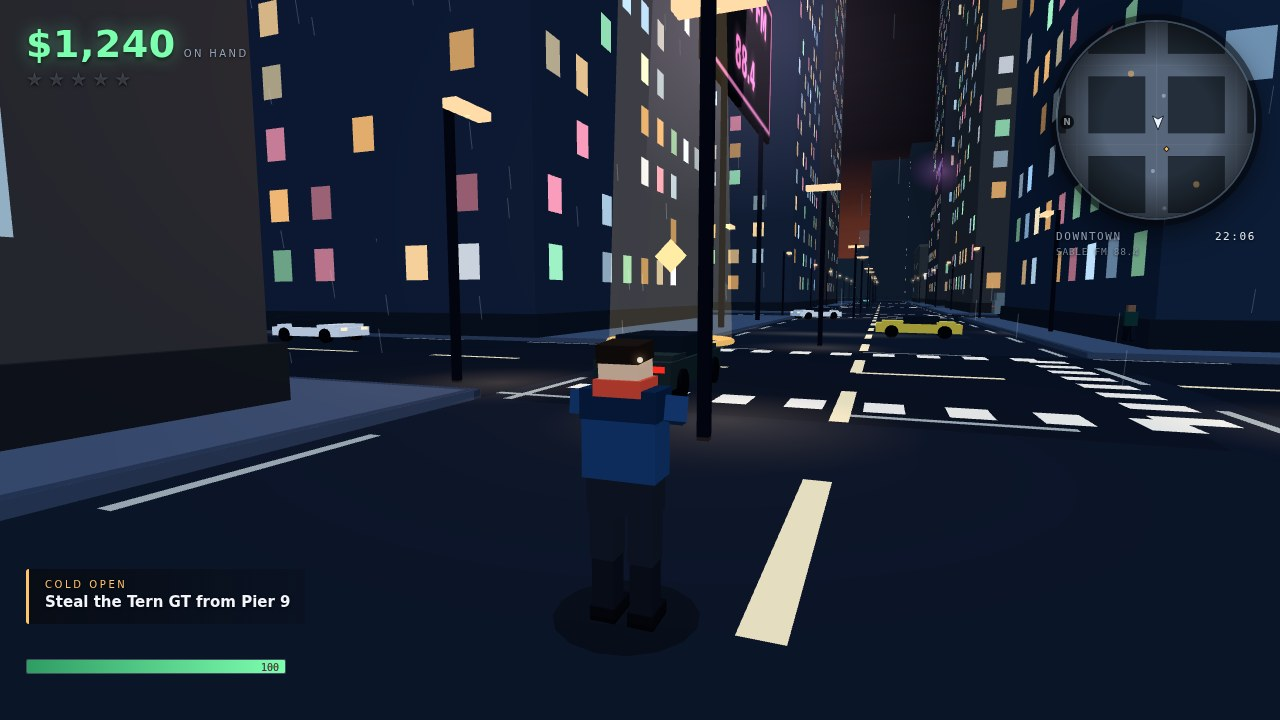
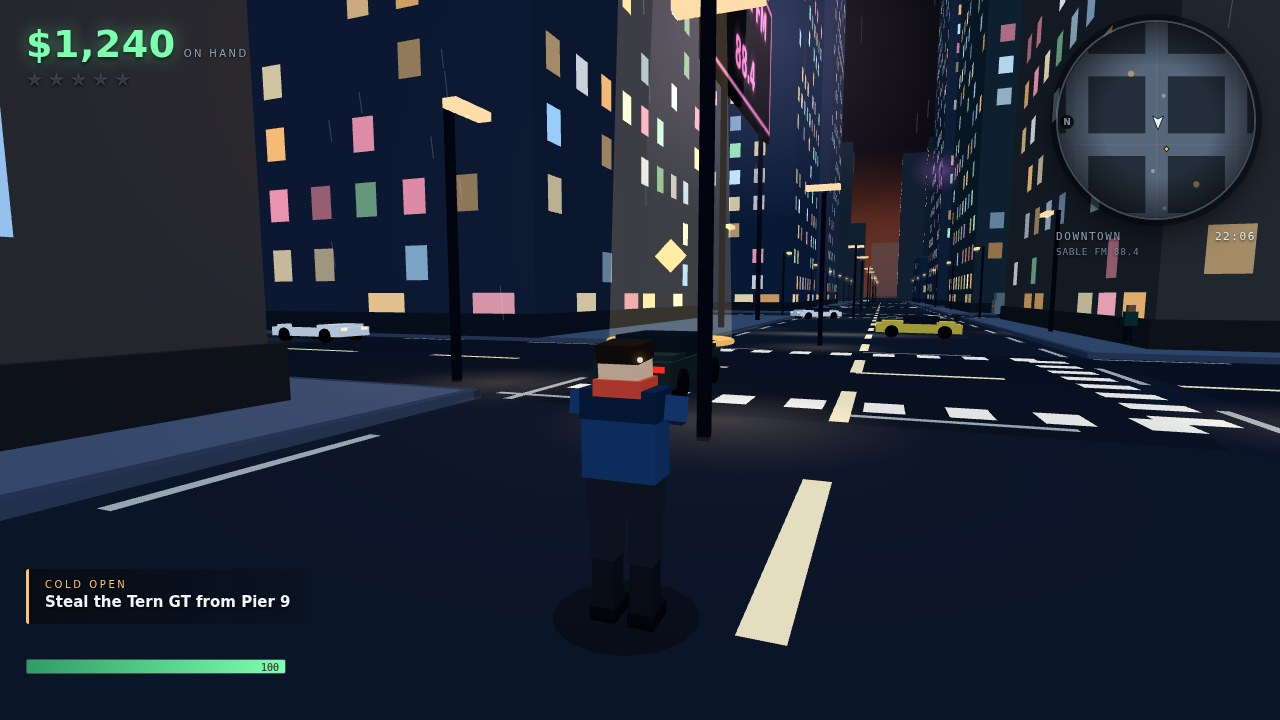
Shopfronts, wet neon reflections, headlight pools, a tighter chase shot
The city now has lit shop windows at street level, a smear of each neon sign on the
wet road under it, a headlight pool in front of every car and brighter beams on the
one being driven. The chase screenshot looks back down the avenue at the cruisers,
the toast line sits clear of the interaction prompt, and the money reads on the HUD
before the first frame.

diff --git a/game/src/city.js b/game/src/city.js
@@ -376,6 +376,7 @@ export class City {
 
     this.buildings.push({ x0, x1, z0, z1, height: base + height, colour, name: spec.name ?? null });
     this.buildWindows(windows, spec, base);
+    if (spec.district !== 'warehouse') this.buildShopfronts(windows, spec);
 
     // Rooftop clutter: tanks, vents, aerials.
     const vents = Math.max(1, Math.round((width * depth) / 160));
@@ -452,6 +453,44 @@ export class City {
               shaded,
             );
           }
+        }
+      }
+    }
+  }
+
+  /** Lit shop windows at street level, so the pavement has something to walk past. */
+  buildShopfronts(windows, spec) {
+    const { x0, x1, z0, z1 } = spec;
+    const base = SIDEWALK_HEIGHT;
+    const faces = [
+      { axis: 'z', at: z0 - 0.06, from: x0 + 1, to: x1 - 1, facing: -1 },
+      { axis: 'z', at: z1 + 0.06, from: x0 + 1, to: x1 - 1, facing: 1 },
+      { axis: 'x', at: x0 - 0.06, from: z0 + 1, to: z1 - 1, facing: -1 },
+      { axis: 'x', at: x1 + 0.06, from: z0 + 1, to: z1 - 1, facing: 1 },
+    ];
+    const shopColours = [0xffd9a0, 0xffc27a, 0xfff0c8, 0x9fe8ff, 0xffb0c8];
+    for (const face of faces) {
+      for (let along = face.from; along < face.to - 2.4; along += 3.6) {
+        if (!this.rng.chance(0.45)) continue;
+        const colour = shade(this.rng.pick(shopColours), this.rng.range(0.6, 0.95));
+        const height = 1.9;
+        const width = 2.6;
+        if (face.axis === 'z') {
+          windows.addFace(
+            [along + width / 2, base + 1.35, face.at],
+            [width / 2, 0, 0],
+            [0, height / 2, 0],
+            [0, 0, face.facing],
+            colour,
+          );
+        } else {
+          windows.addFace(
+            [face.at, base + 1.35, along + width / 2],
+            [0, 0, (width / 2) * -face.facing],
+            [0, height / 2, 0],
+            [face.facing, 0, 0],
+            colour,
+          );
         }
       }
     }
@@ -778,6 +817,25 @@ export class City {
       halo.scale.set(width * 1.7, height * 2.4, 1);
       halo.position.copy(mesh.position);
       this.group.add(halo);
+      // A wet smear of the sign's colour on the road below it.
+      const reflection = new THREE.Mesh(
+        new THREE.PlaneGeometry(width * 0.5, 12),
+        new THREE.MeshBasicMaterial({
+          map: makeGlowTexture('rgba(255,255,255,0.5)', 'rgba(255,255,255,0)'),
+          color: new THREE.Color(colour),
+          transparent: true,
+          opacity: 0.22,
+          depthWrite: false,
+          blending: THREE.AdditiveBlending,
+          toneMapped: false,
+        }),
+      );
+      reflection.rotation.x = -Math.PI / 2;
+      const towardsStreet = facing === 'x-' ? -1 : facing === 'x+' ? 1 : facing === 'z-' ? -1 : 1;
+      const outX = facing.startsWith('x') ? towardsStreet * 6 : 0;
+      const outZ = facing.startsWith('z') ? towardsStreet * 6 : 0;
+      reflection.position.set(x + outX, 0.05, z + outZ);
+      this.group.add(reflection);
       this.signs.push({ x, z, colour });
     };
 
@@ -807,12 +865,12 @@ export class City {
     const boards = [
       { x: 196, z: 214.5, y: 22, facing: 'z+', width: 22, lines: ['SABLE FM', '88.4'], colour: '#ff8ad8' },
       { x: 112, z: 246.5, y: 19, facing: 'z+', width: 18, lines: ['KRAKEN', 'LAGER'], colour: '#6ef0ff' },
-      { x: 300, z: 272.5, y: 24, facing: 'z+', width: 20, lines: ['VANE PAWN', 'CASH FOR ANYTHING'], colour: '#ffc44d' },
-      { x: 62, z: 104.5, y: 17, facing: 'z+', width: 16, lines: ['TIDELINE', 'FISH CO'], colour: '#9dff7a' },
+      { x: 300, z: 270.5, y: 24, facing: 'z+', width: 20, lines: ['VANE PAWN', 'CASH FOR ANYTHING'], colour: '#ffc44d' },
+      { x: 62, z: 102.5, y: 17, facing: 'z+', width: 16, lines: ['TIDELINE', 'FISH CO'], colour: '#9dff7a' },
       { x: 128, z: 96.5, y: 27, facing: 'z+', width: 20, lines: ['SABLE', 'HARBOR'], colour: '#ff5b8f' },
       { x: 262, z: 140.5, y: 33, facing: 'z+', width: 18, lines: ['KRAKEN', 'LAGER'], colour: '#63e6ff' },
-      { x: 214, z: 386.5, y: 22, facing: 'z+', width: 24, lines: ['SABLE', 'HARBOR'], colour: '#ff5b8f' },
-      { x: 330, z: 386.5, y: 26, facing: 'z+', width: 22, lines: ['KRAKEN', 'LAGER'], colour: '#63e6ff' },
+      { x: 214, z: 382.5, y: 22, facing: 'z+', width: 24, lines: ['SABLE', 'HARBOR'], colour: '#ff5b8f' },
+      { x: 330, z: 382.5, y: 26, facing: 'z+', width: 22, lines: ['KRAKEN', 'LAGER'], colour: '#63e6ff' },
     ];
     for (const board of boards) {
       const sign = makeSignTexture(board.lines, {

diff --git a/game/src/shots.js b/game/src/shots.js
@@ -116,17 +116,17 @@ function stageDrive(game) {
   const { city, player, fleet, traffic, cameraRig, missions, state } = game;
   const car = fleet.storyCars[0];
   car.health = 100;
-  car.placeAt(64, 163.6, Math.PI / 2);
+  car.placeAt(238, 275.6, Math.PI / 2);
   fleet.enter(car, player);
   car.speed = 16;
 
-  placeTraffic(traffic.cars[0], 88, 163.6, Math.PI / 2);
-  placeTraffic(traffic.cars[1], 112, 163.6, Math.PI / 2);
-  placeTraffic(traffic.cars[2], 126, 172.6, -Math.PI / 2);
+  placeTraffic(traffic.cars[0], 264, 275.6, Math.PI / 2);
+  placeTraffic(traffic.cars[1], 290, 275.6, Math.PI / 2);
+  placeTraffic(traffic.cars[2], 278, 284.6, -Math.PI / 2);
   traffic.cars[0].speed = 9;
   traffic.cars[1].speed = 11;
 
-  state.money = 1240;
+  state.money = 1590;
   state.wanted = 1;
   missions.title = 'COLD OPEN';
   missions.text = 'Drive the Tern GT to Marrow Motors';
@@ -156,9 +156,9 @@ function stageChase(game) {
   state.money = 1990;
   state.wanted = 3;
   police.clearAll();
-  police.placeUnit(161, 219.6, Math.PI / 2);
-  police.placeUnit(150, 229.6, Math.PI / 2);
-  police.placeUnit(138, 215.6, Math.PI / 2);
+  police.placeUnit(164, 220.4, Math.PI / 2);
+  police.placeUnit(152, 229.6, Math.PI / 2);
+  police.placeUnit(140, 215.6, Math.PI / 2);
   for (const unit of police.units) {
     unit.car.updateLightbar(0.05, true);
     unit.car.speed = 20;
@@ -175,10 +175,11 @@ function stageChase(game) {
   missions.markerGroup.position.set(missions.marker.x, 0.5, missions.marker.z);
   missions.markerGroup.visible = true;
 
-  // Side-on, low: the player's car and the cruisers behind it both in frame, lights toward us.
-  cameraRig.yaw = car.heading;
+  // Looking back down the avenue: the player's car in the foreground and the cruisers closing
+  // behind it, headlights and light bars toward the camera.
+  cameraRig.yaw = car.heading + Math.PI;
   cameraRig.pitch = 0.1;
-  cameraRig.snapTo(new THREE.Vector3(166, 2.7, 235), new THREE.Vector3(165, 1.2, 218));
+  cameraRig.snapTo(new THREE.Vector3(181, 2.6, 229.5), new THREE.Vector3(162, 1.2, 220));
   game.camera.fov = 64;
   game.camera.updateProjectionMatrix();
   ui.toast('Del: "Three stars, Rook. Lose them before the bridge."', 'danger', 60);

diff --git a/game/src/vehicles.js b/game/src/vehicles.js
@@ -255,7 +255,7 @@ export class Vehicle {
         map: makeGlowTexture('rgba(255,240,205,0.85)', 'rgba(255,220,160,0)'),
         color: 0xfff2d6,
         transparent: true,
-        opacity: 0.3,
+        opacity: 0.45,
         depthWrite: false,
         blending: THREE.AdditiveBlending,
         toneMapped: false,
@@ -270,7 +270,7 @@ export class Vehicle {
     // Headlight cones for the player's car: two spotlights that light the road ahead.
     this.beams = [];
     for (const side of [-1, 1]) {
-      const beam = new THREE.SpotLight(0xfff0cc, 0, 60, 0.5, 0.45, 1.2);
+      const beam = new THREE.SpotLight(0xfff0cc, 0, 70, 0.62, 0.5, 1.1);
       beam.position.set(side * 0.6, 0.9, spec.length / 2 - 0.2);
       beam.target.position.set(side * 0.9, -0.6, spec.length / 2 + 18);
       // Invisible until this car is the one being driven: a light left in the scene costs every
@@ -285,7 +285,7 @@ export class Vehicle {
   setHeadlights(on, withBeams = false) {
     this.headlightsOn = on;
     for (const beam of this.beams) {
-      beam.intensity = on && withBeams ? 110 : 0;
+      beam.intensity = on && withBeams ? 180 : 0;
       beam.visible = on && withBeams;
     }
     if (this.headlightPool) this.headlightPool.visible = on;

diff --git a/game/style.css b/game/style.css
@@ -267,7 +267,7 @@ html, body {
 #toast-stack {
   position: absolute;
   left: 50%;
-  bottom: 200px;
+  bottom: 264px;
   transform: translateX(-50%);
   display: flex;
   flex-direction: column;
